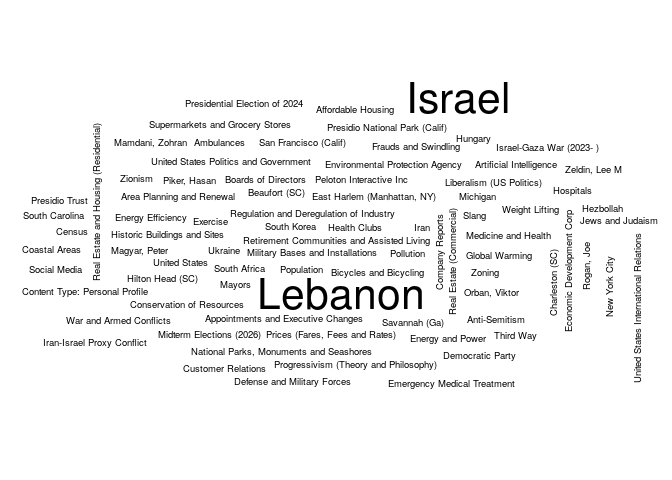
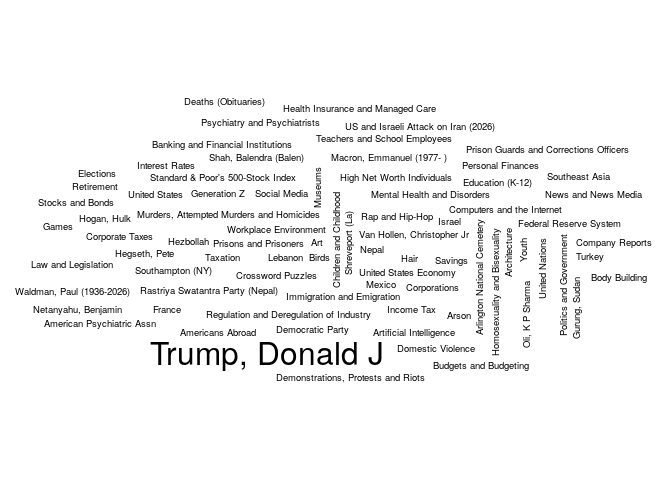
Updating the NYT report

Changed region(s): [[0.0312, 0.1562, 0.9688, 0.8125]]

diff --git a/03-nytimes/README.md b/03-nytimes/README.md
@@ -5,7 +5,7 @@ The following is an example of how to use the [NYTimes
 API](https://developer.nytimes.com/) to get a list of articles related
 to a particular term. Here we are searching articles that include the
 term `"health"`, and that were published up to seven days ago since
-2026-04-13.
+2026-04-20.
 
 ``` r
 # Preparing a function to use the GET method with the NYTimes API
@@ -83,25 +83,25 @@ colnames(tab) <- c("Keyword", "# Articles")
 knitr::kable(tab, row.names = FALSE)
 ```
 
-| Keyword                              | \# Articles |
-|:-------------------------------------|------------:|
-| US and Israeli Attack on Iran (2026) |          15 |
-| Israel                               |          10 |
-| Lebanon                              |          10 |
-| Affordable Housing                   |           5 |
-| Ambulances                           |           5 |
-| Anti-Semitism                        |           5 |
-| Appointments and Executive Changes   |           5 |
-| Area Planning and Renewal            |           5 |
-| Artificial Intelligence              |           5 |
-| Beaufort (SC)                        |           5 |
-| Bicycles and Bicycling               |           5 |
-| Boards of Directors                  |           5 |
-| Census                               |           5 |
-| Charleston (SC)                      |           5 |
-| Coastal Areas                        |           5 |
-| Company Reports                      |           5 |
-| Conservation of Resources            |           5 |
-| Content Type: Personal Profile       |           5 |
-| Customer Relations                   |           5 |
-| Defense and Military Forces          |           5 |
+| Keyword                               | \# Articles |
+|:--------------------------------------|------------:|
+| United States Politics and Government |          20 |
+| Trump, Donald J                       |          10 |
+| American Psychiatric Assn             |           5 |
+| Americans Abroad                      |           5 |
+| Architecture                          |           5 |
+| Arlington National Cemetery           |           5 |
+| Arson                                 |           5 |
+| Art                                   |           5 |
+| Artificial Intelligence               |           5 |
+| Banking and Financial Institutions    |           5 |
+| Birds                                 |           5 |
+| Body Building                         |           5 |
+| Budgets and Budgeting                 |           5 |
+| Children and Childhood                |           5 |
+| Company Reports                       |           5 |
+| Computers and the Internet            |           5 |
+| Corporate Taxes                       |           5 |
+| Corporations                          |           5 |
+| Crossword Puzzles                     |           5 |
+| Deaths (Obituaries)                   |           5 |
